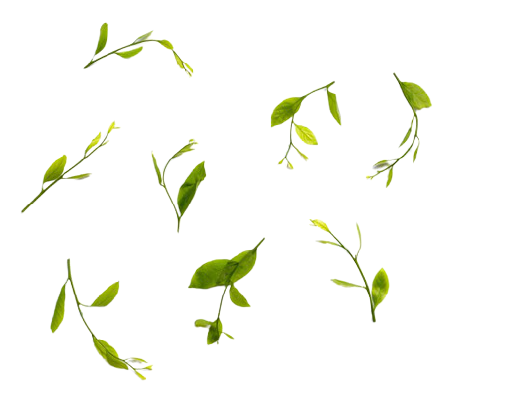
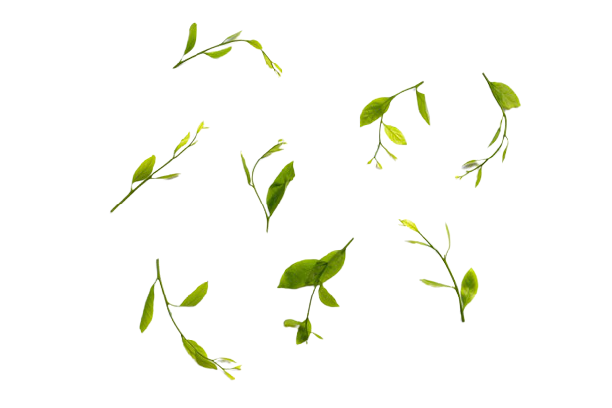
fixed spaces and added section3 and section4

diff --git a/index.html b/index.html
@@ -54,14 +54,14 @@
               </div>
             </div>
             <div class="features">
-              <img src="img/star.svg" width="56" height="56">
+              <img src="img/star.svg" width="56px" height="56px">
               <div>
                 <span>20K</span>
                 <p>Reviews</p>
               </div>
             </div>
             <div class="features">
-              <img src="img/harvest.svg" width="56" height="56">
+              <img src="img/harvest.svg" width="56px" height="56px">
               <div>
                 <span>300</span>
                 <p>Items</p>
@@ -69,15 +69,15 @@
             </div>
           </div>
         </div>
-        <img src="img/leaves.png" class="decor">
       </section>
+      <img src="img/leaves.png" class="decor">
       <section class="section2">
         <h2 class="subtitle">Why We Are The Best?</h2>
         <div>
           <p class="description">Lorem Ipsum is simply dummy text of the printing and typesetting industry. Lorem Ipsum has been the industry's standard dummy text ever since the 1500s, when an unknown printer took a galley...</p>
         </div>
         <div class="benefits-list">
-          <div>
+          <div class="features-box">
             <div class="features-section2">
               <img src="img/delivery-man-02.svg">
               <div class="features-text">
@@ -100,30 +100,40 @@
               </div>
             </div>
             <img src="img/Arrow-02.svg" class="arrow">
-            <img src="img/decor-line.svg" class="decor-line">
           </div>
           <div>
             <img src="img/delivery-man-03.png" class="image">
           </div>
         </div>
       </section>
-      <section>
-        <img src="img/vegetables-rectangle.png">
-        <h2 class="subtitle">Explor Our Special Items</h2>
-        <p class="description">Lorem Ipsum is simply dummy text of the printing and typesetting industry. Lorem Ipsum has been the industry's standard dummy text ever since the 1500s, when an unknown printer...</p>
-        <a href="#" class="order">
-          <span>Explor Now</span>
-          <img src="">
-        </a>
+      <img src="img/decor-line.svg" class="decor-line">
+      <section class="section3">
+        <div class="section3-box">
+          <img src="img/vegetables-rectangle.png">
+          <div class="section3-text">
+            <h2 class="subtitle">Explor Our Special Items</h2>
+            <p class="description">Lorem Ipsum is simply dummy text of the printing and typesetting industry. Lorem Ipsum has been the industry's standard dummy text ever since the 1500s, when an unknown printer...</p>
+            <a href="#" class="order">
+              <p>Explor Now</p>
+              <img src="img/Arrow-01.svg" width="64px" height="64px">
+            </a>
+          </div>
+        </div>
       </section>
-      <section>
-        <h2 class="subtitle">What Our Customers About Us saying</h2>
-        <p class="description">Lorem Ipsum is simply dummy text of the printing and typesetting industry. Lorem Ipsum has been the industry's standard dummy text ever since the 1500s, when an unknown printer took a galley of type and scrambled it to make a type specimen book. It has survived not only five centuries, but also the leap into electronic typesetting, remaining essentially unchanged. It was popularis</p>
-        <p class="name">Ahmed Hridoy</p>
-        <img src="img/Stars.svg">
-        <button>
-        <button>
-        <img src="img/man-in-hat.png">
+      <div class="pseudo2"></div>
+      <img src="img/leaves.png" class="decor2" width="413" height="397">
+      <section class="section4">
+        <div class="review">
+          <div>
+            <h2 class="subtitle">What Our Customers About Us saying</h2>
+            <p class="description">Lorem Ipsum is simply dummy text of the printing and typesetting industry. Lorem Ipsum has been the industry's standard dummy text ever since the 1500s, when an unknown printer took a galley of type and scrambled it to make a type specimen book. It has survived not only five centuries, but also the leap into electronic typesetting, remaining essentially unchanged. It was popularis</p>
+            <p class="name">Ahmed Hridoy</p>
+            <img src="img/Stars.svg">
+            <button>
+            <button>
+          </div>
+          <img src="img/man-in-hat.png">
+        </div>
       </section>
       <section>
         <div>

diff --git a/css/style.css b/css/style.css
@@ -64,6 +64,7 @@ body {
 .header-logo {
   height: 56px;
   width: 56px;
+  text-align: center;
 }
 
 .header-nav li {
@@ -94,25 +95,28 @@ body {
 }
 
 .section1 {
+  box-sizing: border-box;
   height: 850px;
   margin-top: 43px;
   padding-top: 93px;
   position: relative;
-  margin-bottom: 90px;
+  z-index: 4;
 }
 
 .pseudo {
   background-color: #F3FBF8;
   position: absolute;
-  width: 100%;
-  height: 870px;
+  width: 1440px;
+  height: 850px;
   left: 0;
+  z-index: 2;
 }
 
 .decor {
   position: absolute;
-  left: -123px;
-  top: 0;
+  left: -59px;
+  top: 115px;
+  z-index: 3;
 }
 
 .title {
@@ -138,14 +142,20 @@ body {
 
 .description {
   color: #555555;
+  margin: 0;
+  padding: 0;
 }
 
 .section2 {
-  width: 671px;
+  box-sizing: border-box;
+  margin-top: 140px;
+  position: relative;
+  z-index: 2;
 }
 
 .subtitle {
-  margin: 0 0 20px 0;
+  margin: 30px 0 20px 0;
+
 }
 
 .section2 p{
@@ -162,6 +172,10 @@ body {
   width: 1240px;
 }
 
+.features-box {
+  width: 500px;
+  margin-right: 140px;
+}
 
 .features-section2 {
   width: 500px;
@@ -171,7 +185,7 @@ body {
   padding: 40px 59px;
   align-items: center;
   justify-content: space-between;
-  margin-top: 24px;
+  margin-top: 18px;
 }
 
 .features-text {
@@ -192,13 +206,15 @@ body {
   box-sizing: border-box;
   width: 176px;
   height: 64px;
-  margin: 33px auto;
+  margin: 33px auto -5px;
 }
 
 .box {
   display: flex;
   flex-direction: row;
   justify-content: space-between;
+  width: 1220px;
+  margin: 0 auto;
 }
 
 .features {
@@ -228,6 +244,7 @@ body {
   position: absolute;
   left: 461px;
   top: 966px;
+  z-index: 1;
 }
 
 .benefits {
@@ -235,13 +252,69 @@ body {
 }
 
 .image {
-  margin-left: 140px;
-  margin-top:-33px
+  margin-top:-40px
 }
 
 .benefits span {
   font-size: 48px;
   line-height: 48px;
+}
+
+
+.section3 {
+  height: 832px;
+  margin-top: 146px;
+  box-sizing: border-box;
+  padding-top: 89px;
+  position: relative;
+  z-index: 2;
+}
+
+.section3-box {
+  display: flex;
+  flex-direction: row;
+}
+
+.section3-text {
+  margin-left: 50px;
+}
+
+.section3 .order {
+  margin: 50px 0 0 0;
+}
+
+.pseudo2 {
+  position: absolute;
+  width: 1440px;
+  height: 832px;
+  left: 0;
+  top: 2064px;
+  background-color: #F3FBF8;
+  z-index: 1;
+}
+
+.decor2 {
+  position: absolute;
+  left: 976px;
+  top: 2498px;
+  z-index: 3;
+  object-fit: cover;
+}
+
+.section4 {
+  height: 566px;
+  margin-top: 66px;
+  box-sizing: border-box;
+}
+
+.review {
+  display: flex;
+  flex-direction: row;
+  justify-content: space-between;
+}
+
+.section4 div p:first-child {
+  background-color: #000000;
 }
 
 .plus {
@@ -259,6 +332,7 @@ body {
   font-weight: 500;
   font-size: 30px;
   line-height: 36px;
+  margin: 50px 0 20px 0;
 }
 
 .footer-nav h3 {
